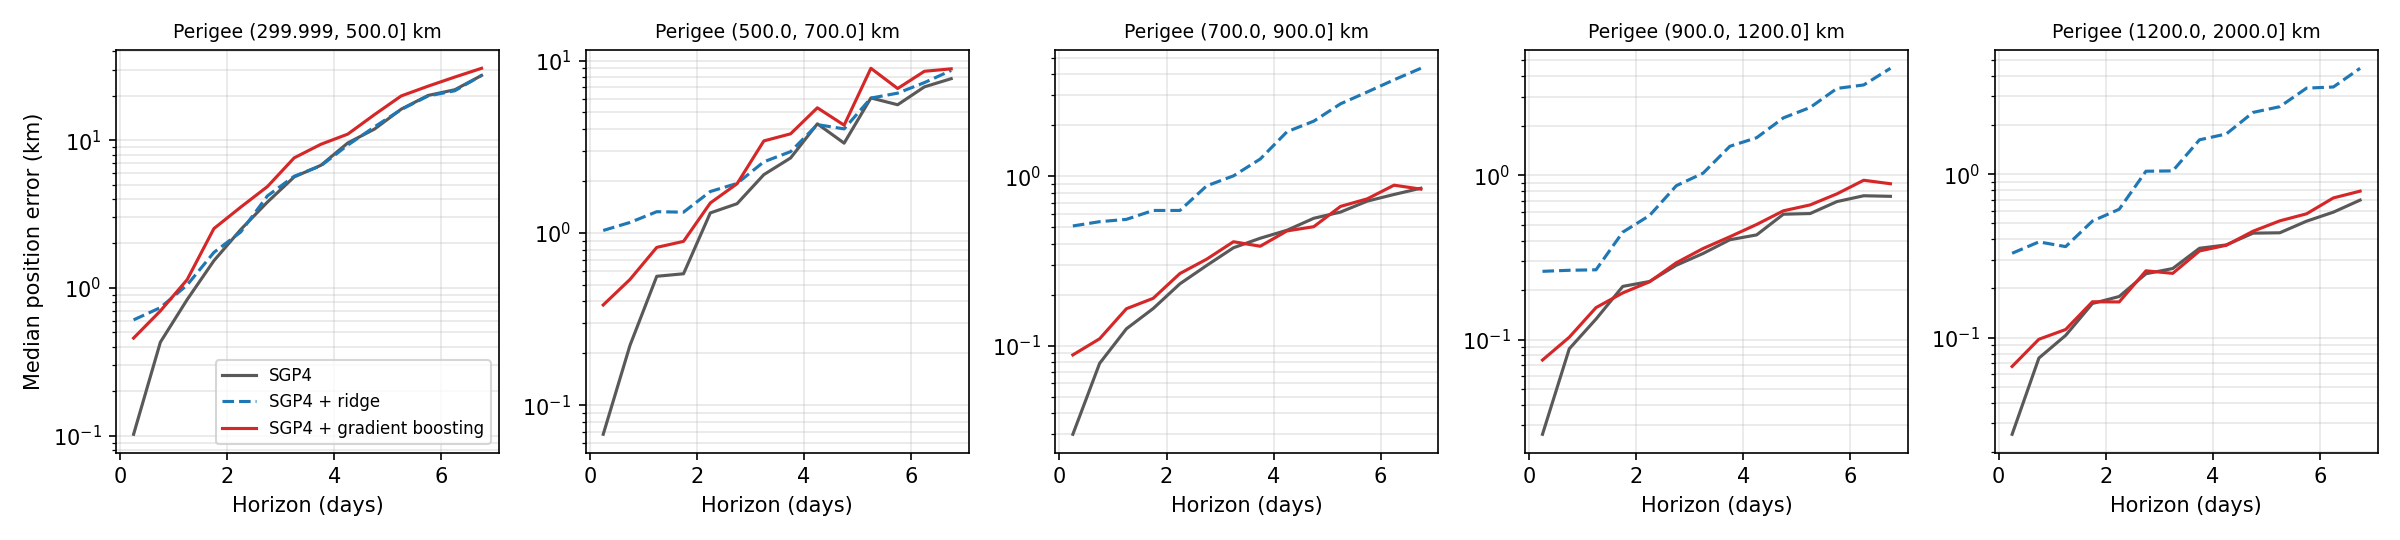
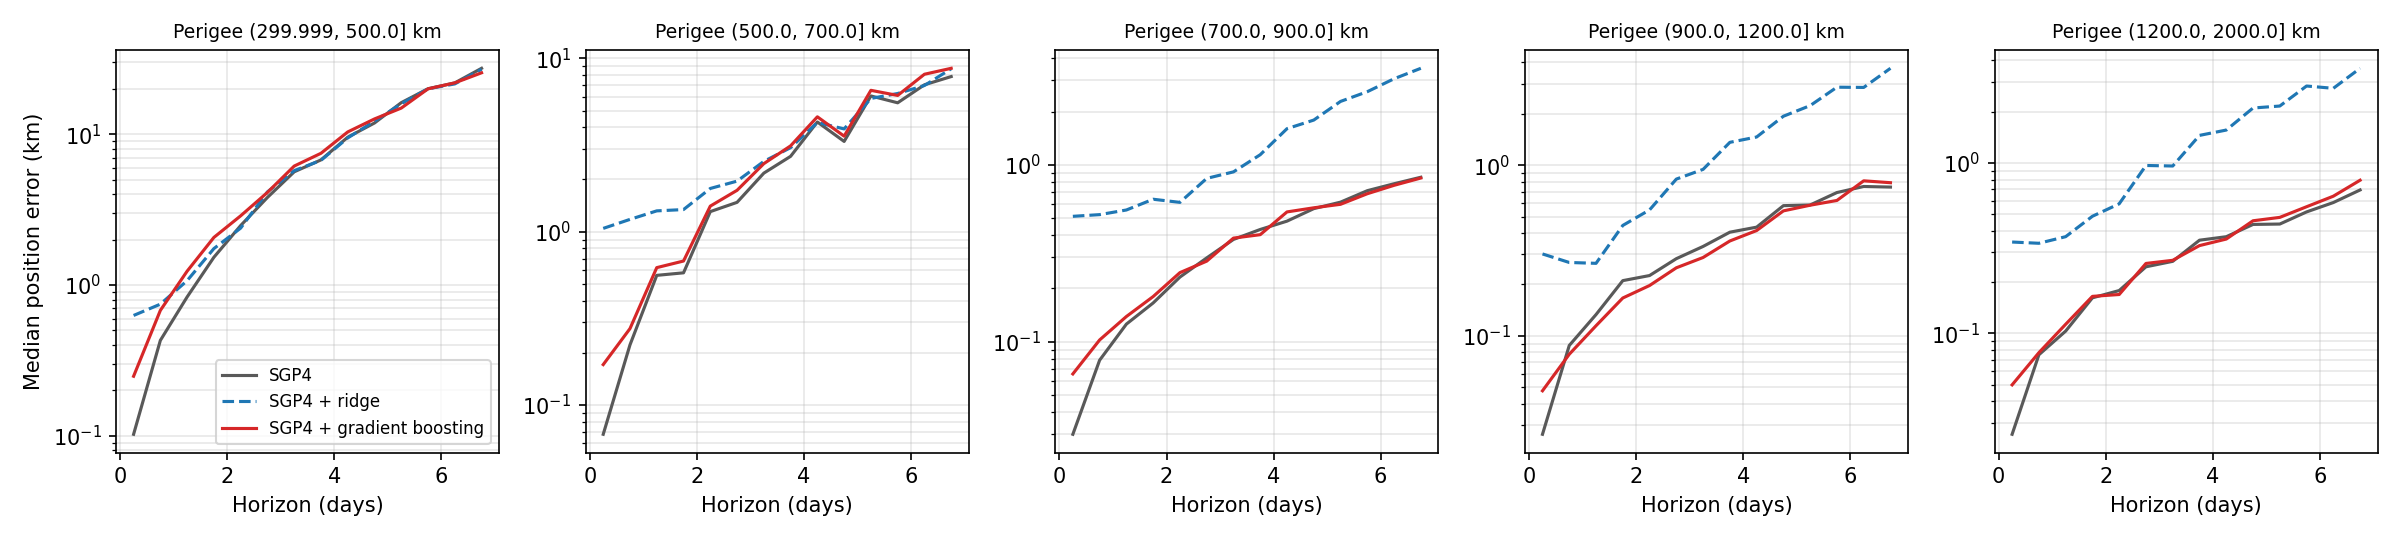
Constrain corrections to vanish at zero horizon
Ridge without intercept on horizon-proportional terms; trees predict error per day of horizon; adds run 1–2 outputs and AI log entry.

diff --git a/src/sgp4corr/models.py b/src/sgp4corr/models.py
@@ -8,6 +8,12 @@ Three methods are compared on held-out objects and a held-out time period:
 * ``GB``    - the main model: gradient-boosted trees on all features, one
   model per RTN component.
 
+Both learned methods are constrained so that the correction vanishes at zero
+horizon, as it must physically (an element set has no propagation error at its
+own epoch): every ridge term is proportional to the horizon and there is no
+intercept, and the trees predict the residual *per day of horizon*, which is
+then multiplied by the horizon.
+
 Each model predicts the SGP4 residual (prediction minus reference). The
 corrected prediction is the SGP4 position minus the predicted residual.
 
@@ -40,9 +46,13 @@ if __package__ in (None, ""):                      # allow `python src/sgp4corr/
     sys.path.insert(0, str(Path(__file__).resolve().parents[1]))
 from sgp4corr.features import FEATURE_COLUMNS, TARGET_COLUMNS
 
-PHYSICS_TERMS = ["H2", "BSTAR_H2", "PREV_RATE_H", "PREV_RATE_H2"]
-RIDGE_COLUMNS = ["HORIZON_DAYS", "H2", "BSTAR_H2", "PREV_DR_KM", "PREV_DT_KM", "PREV_DN_KM",
+PHYSICS_TERMS = ["H2", "BSTAR_H2", "PREV_DR_H", "PREV_DT_H", "PREV_DN_H",
                  "PREV_RATE_H", "PREV_RATE_H2"]
+# Every ridge term is zero at zero horizon, so the ridge correction is too.
+RIDGE_COLUMNS = ["HORIZON_DAYS", "H2", "BSTAR_H2", "PREV_DR_H", "PREV_DT_H", "PREV_DN_H",
+                 "PREV_RATE_H", "PREV_RATE_H2"]
+# Shortest horizon used when scaling the tree target, to avoid dividing by ~0.
+HORIZON_FLOOR_DAYS = 1.0 / 24.0
 GB_COLUMNS = [*FEATURE_COLUMNS, *PHYSICS_TERMS]
 
 RIDGE_ALPHAS = [1.0, 10.0, 100.0, 1_000.0, 10_000.0]
@@ -69,6 +79,9 @@ def add_physics_terms(table: pd.DataFrame) -> pd.DataFrame:
     h = out["HORIZON_DAYS"]
     out["H2"] = h**2
     out["BSTAR_H2"] = out["BSTAR"] * h**2
+    out["PREV_DR_H"] = out["PREV_DR_KM"] * h
+    out["PREV_DT_H"] = out["PREV_DT_KM"] * h
+    out["PREV_DN_H"] = out["PREV_DN_KM"] * h
     out["PREV_RATE_H"] = out["PREV_DT_RATE"] * h
     out["PREV_RATE_H2"] = out["PREV_DT_RATE"] * h**2
     return out
@@ -137,6 +150,10 @@ def fit_ridge(train: pd.DataFrame, val: pd.DataFrame, target: str):
     """Fit the ridge baseline for one residual component.
 
     Missing history features are filled with zero (no recent error known).
+    There is no intercept and the features are scaled but not centred, so the
+    prediction is exactly zero at zero horizon. Without this constraint the
+    intercept absorbs the mean of the heavy-tailed residuals and shifts every
+    prediction, including short-horizon ones where SGP4 is already accurate.
     The regularisation strength is the candidate with the lowest validation
     mean absolute error.
 
@@ -151,12 +168,35 @@ def fit_ridge(train: pd.DataFrame, val: pd.DataFrame, target: str):
     best = (np.inf, None, None)
     for alpha in RIDGE_ALPHAS:
         model = make_pipeline(SimpleImputer(strategy="constant", fill_value=0.0),
-                              StandardScaler(), Ridge(alpha=alpha))
+                              StandardScaler(with_mean=False),
+                              Ridge(alpha=alpha, fit_intercept=False))
         model.fit(train[RIDGE_COLUMNS], train[target])
         mae = np.mean(np.abs(val[target] - model.predict(val[RIDGE_COLUMNS])))
         if mae < best[0]:
             best = (mae, model, alpha)
     return best[1], best[2]
+
+
+def horizon_scale(table: pd.DataFrame) -> np.ndarray:
+    """Horizon in days, floored at ``HORIZON_FLOOR_DAYS``, used to scale the tree target."""
+    return np.maximum(table["HORIZON_DAYS"].to_numpy(dtype=float), HORIZON_FLOOR_DAYS)
+
+
+def predict_gb(model: HistGradientBoostingRegressor, table: pd.DataFrame) -> np.ndarray:
+    """Residual in km predicted by a model from ``fit_gb``.
+
+    The trees predict the residual per day of horizon; multiplying by the
+    horizon converts it back to km and makes the correction shrink to
+    (almost) zero at short horizons.
+
+    Args:
+        model: A model returned by ``fit_gb``.
+        table: Rows with the ``GB_COLUMNS`` features.
+
+    Returns:
+        Predicted residual in km for each row.
+    """
+    return model.predict(table[GB_COLUMNS]) * horizon_scale(table)
 
 
 def fit_gb(
@@ -170,10 +210,12 @@ def fit_gb(
     """Fit gradient-boosted trees for one residual component.
 
     Uses absolute-error loss, which is robust to the heavy-tailed residuals.
-    The number of trees is chosen by early stopping on the validation
-    *objects*: the model is trained for ``max_iter`` trees, the validation
-    error after each tree is evaluated, and the model is refitted with the
-    best count.
+    The trees learn the residual divided by the horizon, weighted by the
+    horizon, which is equivalent to minimising the absolute error in km while
+    forcing the correction to scale with the horizon (use ``predict_gb``).
+    The number of trees is chosen by early stopping on the validation set:
+    the model is trained for ``max_iter`` trees, the validation error after
+    each tree is evaluated, and the model is refitted with the best count.
 
     Args:
         train: Training rows (with physics terms).
@@ -185,6 +227,7 @@ def fit_gb(
 
     Returns:
         Tuple of (fitted model, validation MAE in km, number of trees used).
+        Predict with ``predict_gb``, not ``model.predict``.
     """
     settings = {**DEFAULT_GB_PARAMS, **(params or {})}
 
@@ -194,12 +237,19 @@ def fit_gb(
             random_state=seed, **settings,
         )
 
-    model = make(max_iter).fit(train[GB_COLUMNS], train[target])
-    y_val = val[target].to_numpy()
-    curve = [np.mean(np.abs(y_val - p)) for p in model.staged_predict(val[GB_COLUMNS])]
+    scale = horizon_scale(train)
+    y_scaled = train[target].to_numpy(dtype=float) / scale
+
+    def fit(n_trees):
+        return make(n_trees).fit(train[GB_COLUMNS], y_scaled, sample_weight=scale)
+
+    model = fit(max_iter)
+    y_val = val[target].to_numpy(dtype=float)
+    val_scale = horizon_scale(val)
+    curve = [np.mean(np.abs(y_val - p * val_scale)) for p in model.staged_predict(val[GB_COLUMNS])]
     best_iter = int(np.argmin(curve)) + 1
     if best_iter < max_iter:
-        model = make(best_iter).fit(train[GB_COLUMNS], train[target])
+        model = fit(best_iter)
     return model, float(curve[best_iter - 1]), best_iter
 
 
@@ -296,7 +346,7 @@ def train_and_predict(
         test[f"PRED_{target}_RIDGE"] = models["RIDGE"][target].predict(test[RIDGE_COLUMNS])
         start = time.perf_counter()
         models["GB"][target], mae, n_trees = fit_gb(train, val, target, best_params, max_iter, seed)
-        test[f"PRED_{target}_GB"] = models["GB"][target].predict(test[GB_COLUMNS])
+        test[f"PRED_{target}_GB"] = predict_gb(models["GB"][target], test)
         sgp4_mae = np.mean(np.abs(val[target]))
         print(f"{target}: ridge alpha {alpha}; GB {n_trees} trees, val MAE {mae:.4f} km "
               f"vs uncorrected {sgp4_mae:.4f} km "

diff --git a/tests/test_models.py b/tests/test_models.py
@@ -6,7 +6,9 @@ import pytest
 
 from sgp4corr.evaluate import bootstrap_median_reduction, error_table, remaining_error, summarise
 from sgp4corr.features import FEATURE_COLUMNS
-from sgp4corr.models import add_physics_terms, assign_splits, train_and_predict
+from sgp4corr.models import (
+    GB_COLUMNS, add_physics_terms, assign_splits, predict_gb, train_and_predict,
+)
 
 
 @pytest.fixture(scope="module")
@@ -92,3 +94,19 @@ def test_remaining_error_for_sgp4_is_the_raw_residual():
     assert np.allclose(remaining_error(predictions, "GB"), [[0.0, -1.0, 0.5]])
     with pytest.raises(KeyError):
         remaining_error(predictions, "RIDGE")
+
+
+def test_corrections_vanish_at_zero_horizon(table):
+    """Physically, there is no propagation error at the element set's own epoch."""
+    _, models, _ = train_and_predict(table, n_candidates=1, max_iter=30)
+    rows = add_physics_terms(table.head(200))
+    at_zero = rows.assign(HORIZON_DAYS=0.0)
+    at_zero = add_physics_terms(at_zero)
+    at_week = add_physics_terms(rows.assign(HORIZON_DAYS=7.0))
+    from sgp4corr.models import RIDGE_COLUMNS
+    for target, ridge in models["RIDGE"].items():
+        assert np.allclose(ridge.predict(at_zero[RIDGE_COLUMNS]), 0.0)
+    for target, gb in models["GB"].items():
+        near_zero = np.abs(predict_gb(gb, at_zero)).mean()
+        week = np.abs(predict_gb(gb, at_week)).mean()
+        assert near_zero <= week / 100          # floor of 1 hour vs 7 days = 1/168

diff --git a/AI_LOG.md b/AI_LOG.md
@@ -1,1 +1,3 @@
 used to create a suggested initial framework/project workflow based on my proposed concept
+
+Claude designed the original split with validation in the same period as training. Run 1 showed the corrections made predictions worse on unseen objects; the cause was traced to this and fixed in run 2.
